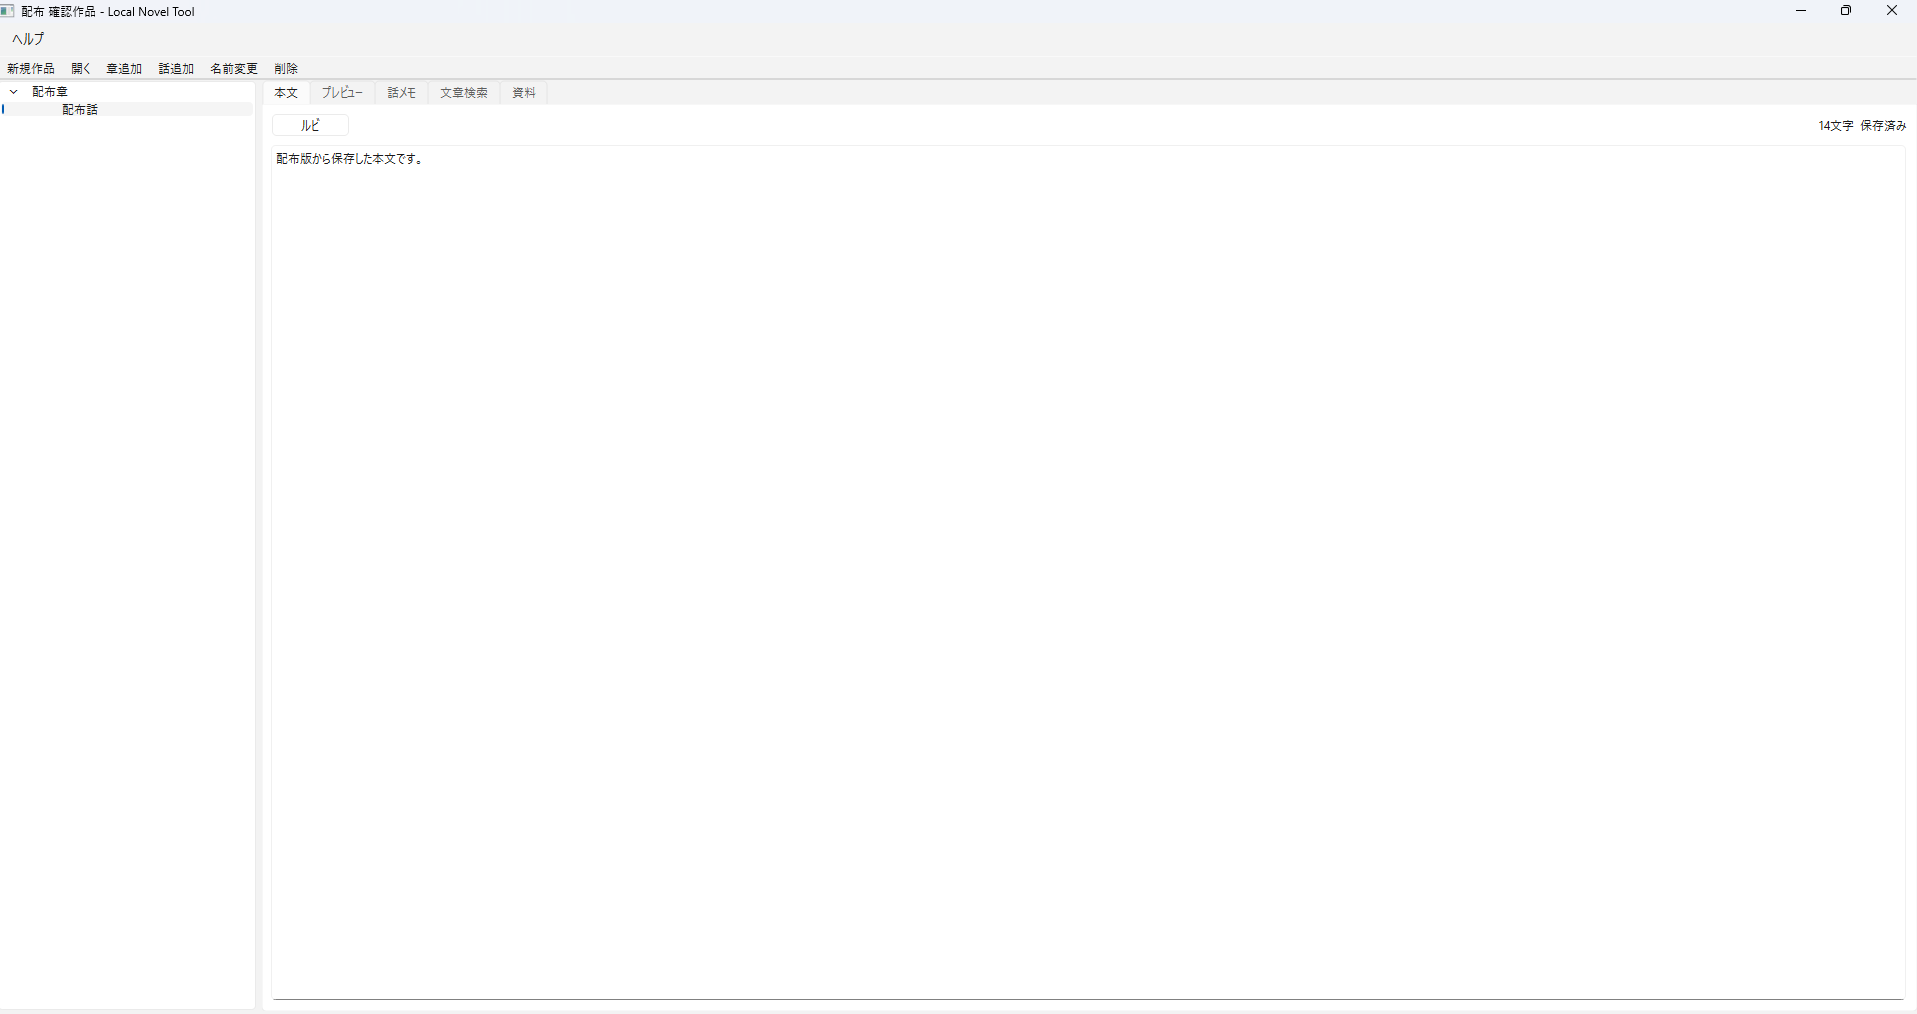
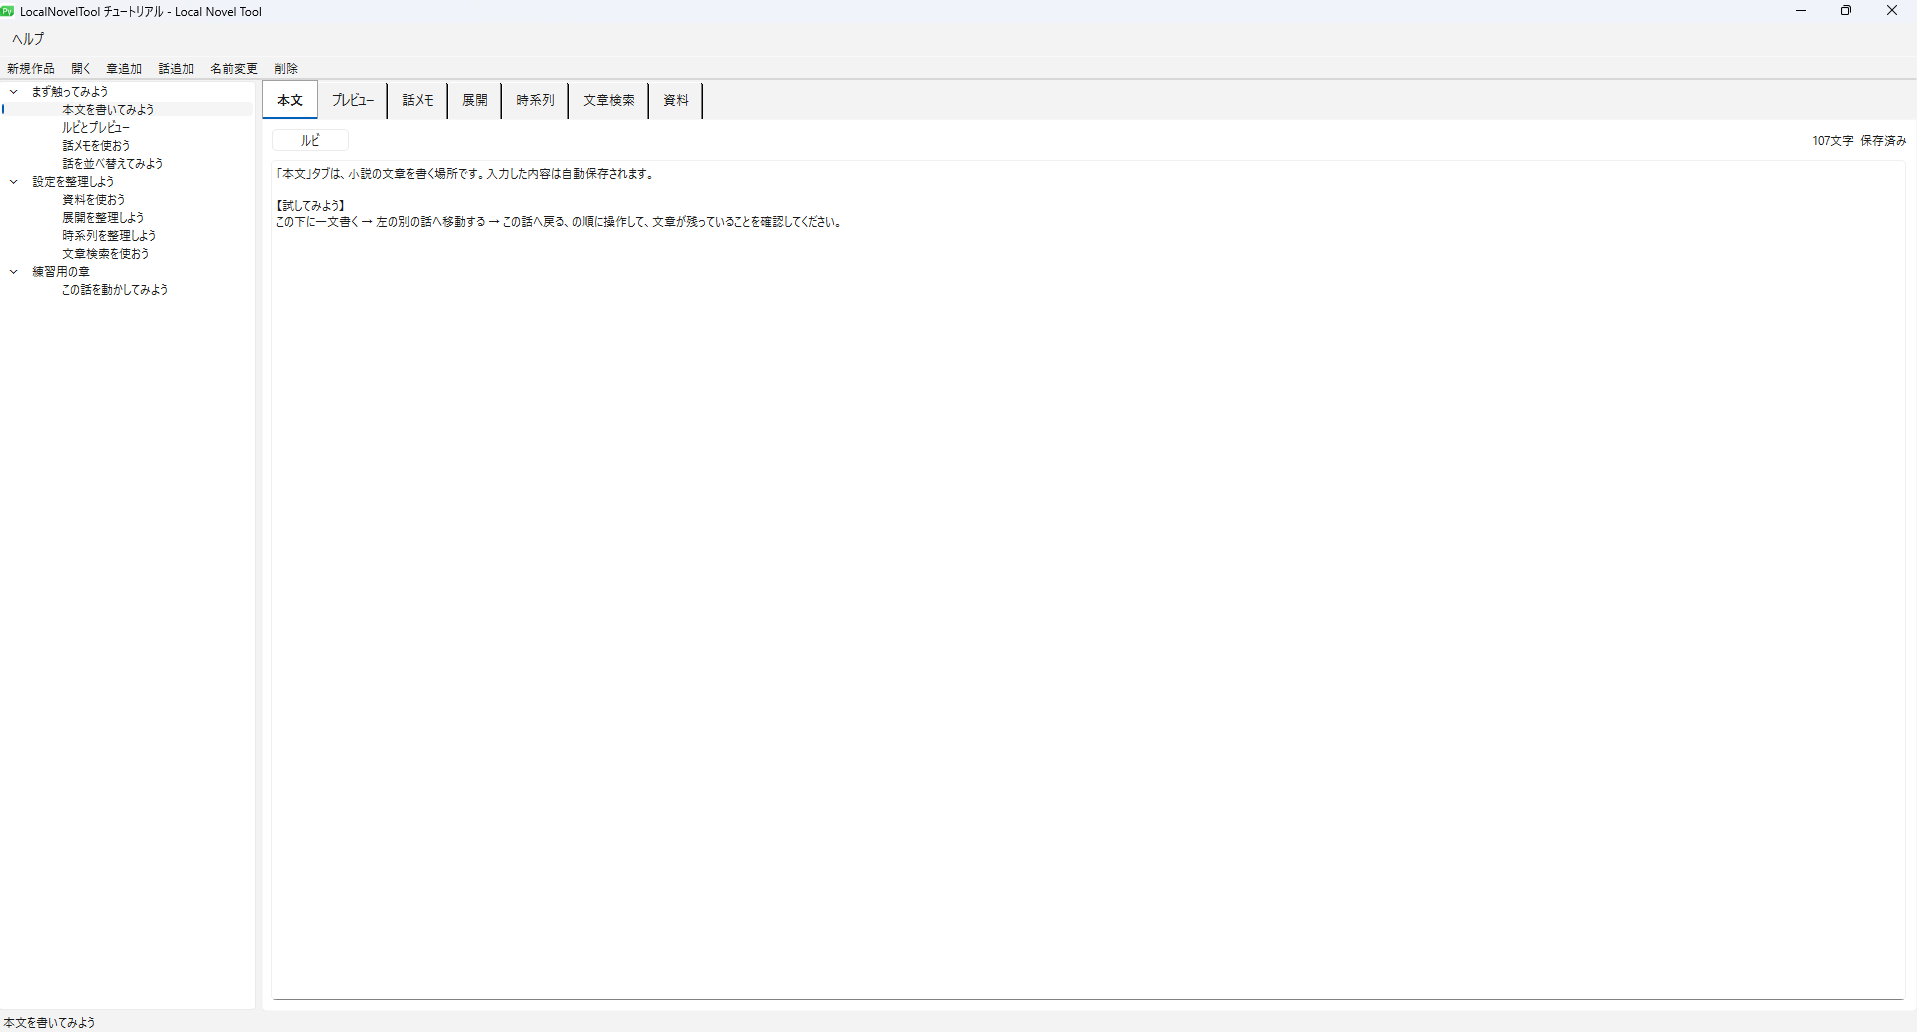
Update README for v0.2.0 release

diff --git a/README.md b/README.md
@@ -1,61 +1,74 @@
-# Local Novel Tool v0.2 source
+# LocalNovelTool
 
-完全ローカルで動く、長編小説向けの軽量執筆・資料確認ツールです。
+小説を書くことに集中するための、軽量・完全ローカルの執筆支援ツールです。
+
+「この設定なんだっけ？」
+「次の展開どうするんだっけ？」
+をすぐ確認できることを重視しています。
+
+## Download
+
+最新版は GitHub Releases からダウンロードできます。
+
+ZIPを展開し、`LocalNovelTool.exe` を起動するだけで使用できます。
+Pythonのインストールは不要です。
 
 ## Screenshot
 
 ![LocalNovelTool](docs/screenshot.png)
 
-## 現在の機能
+## 主な機能
 
 - 作品フォルダの新規作成 / 読み込み
-- 初回起動時に開く操作チュートリアル作品
+- 初回起動時のチュートリアル作品
 - 章・話の追加 / 名前変更 / 削除
 - 章・話のドラッグ＆ドロップ並び替え
-- 話を別の章へ差し込み
-- 本文エディタ + 500ms 自動保存
-- 話メモ + 自動保存
-- 展開メモ + 章・話との任意の関連付け
-- 自由文字列で管理する時系列
-- ルビ記法 `｜白雨《しらさめ》` の入力補助
-- ルビ付きプレビュー（Qt WebEngineが利用可能な場合）
+- 話の別章への移動
+- 本文エディタ
+- 500ms自動保存
+- 文字数表示
+- ルビ記法 `｜白雨《しらさめ》`
+- 横書き / 縦書きプレビュー
+- 話メモ
+- 登場人物 / アイテム / 世界観 / その他の資料管理
+- 展開管理
+- 時系列管理
 - 本文 / 話メモ / 資料 / 展開 / 時系列の横断検索
-- 資料: 登場人物 / アイテム / 世界観 / その他
-- 最近開いた資料
-- UTF-8の普通のテキストとして作品データを保存
+- 検索結果から対象へ直接移動
+- チュートリアル再作成
+- 完全ローカル動作
 
-## 開発実行
+## 基本的な使い方
 
-Windows PowerShell例:
+1. 「新規作品」から作品を作成
+2. 章と話を追加
+3. 「本文」タブで執筆
+4. 必要に応じて話メモ、資料、展開、時系列を確認
+5. 「文章検索」で作品全体を横断検索
 
-```powershell
-py -m venv .venv
-.\.venv\Scripts\Activate.ps1
-pip install -r requirements.txt
-python main.py
-```
+初回起動時には操作方法を確認できるチュートリアル作品が開きます。
 
-## 作品データ
+## データ保存について
 
-作品フォルダの中に以下を作ります。
+- 作品データは完全にローカルへ保存します。
+- 本文はUTF-8テキストで保持します。
+- 作品構造はJSONで保持します。
+- アプリが使用できなくなっても本文データを直接確認できます。
+- クラウド通信やAI機能は使用しません。
 
-```text
-project.json
-manuscript/
-episode_notes/
-references/
-backups/
-```
+## 開発 / ビルド
 
-本文・メモ・資料はUTF-8テキストなので、アプリがなくても直接救出できます。
-初回チュートリアルの原本は `resources/tutorial/` に通常作品形式で格納し、
-初回起動時にユーザーのドキュメントフォルダへコピーします。
+使用技術:
 
-## 配布方針
+- Python
+- PySide6 / Qt
+- pytest
+- pyside6-deploy / Nuitka
 
-最終配布はWindows向けフォルダ版ZIPを想定。Pythonを利用者側に要求しない構成にします。
+Windows 10 / 11 x64向けです。詳細なビルド手順は [BUILD_WINDOWS.md](BUILD_WINDOWS.md) を参照してください。
 
-## フォルダ版ビルド方針
+## ライセンス
 
-Qt公式の `pyside6-deploy` を使用し、`pysidedeploy.spec` の `nuitka.mode` を `standalone` にしてフォルダ配布します。
-正式配布前にWindows 10/11のクリーン環境、日本語パス、空白入りパスで動作確認します。
+- [LICENSE.txt](LICENSE.txt)
+- [THIRD_PARTY_LICENSES.txt](THIRD_PARTY_LICENSES.txt)
+- [CREDITS.txt](CREDITS.txt)
